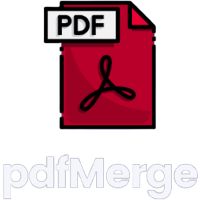
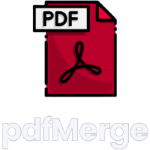
Selected merge fixed

Changed region(s): [[0.2133, 0.0267, 0.5867, 0.24], [0.7467, 0.16, 0.7733, 0.1867]]

diff --git a/pdfMerge.py b/pdfMerge.py
@@ -174,14 +174,13 @@ photo = PhotoImage(file = './pdfmerge-icon.png')
 root.iconbitmap(r'pdfmerge-icon.ico')
 root.iconphoto(True, photo)
 frm = Frame(root)
-frm.grid(row=7, column=0, sticky=N+S)
+frm.grid(row=7, column=0)
 root.rowconfigure(1, weight=1)
 root.columnconfigure(1, weight=1)
 root.resizable(False,False)
-#add image to the top
 photo = PhotoImage(file = './pdfmerge-icon.png')
 label = Label(root, image=photo,bg='#282C34')
-label.grid(row=0, column=0, sticky=W+E+N+S,columnspan=3)
+label.grid(row=0, column=0, sticky=W+E+N+S,columnspan=3,pady=10)
 
 lab=Label(root,bg='#282C34',fg='white',text="File Directory:  ")
 lab.grid(row=1,column=0)
@@ -189,7 +188,7 @@ folder_path=StringVar()
 lbl1 = Label(master=root,bg='#282C34',fg='white',textvariable=folder_path)
 lbl1.grid(row=1, column=1)
 button2 = Button(text="Browse", command=browse_button,fg='white',bg='grey')
-button2.grid(row=1, column=2, padx=10, sticky=E+W+N)
+button2.grid(row=1, column=2, padx=10, sticky=E+W)
 
 r = StringVar()
 Label(root,bg='#282C34',fg='white',text="Want to merge all files?").grid(column=0,row=2,sticky=E+W+N)
